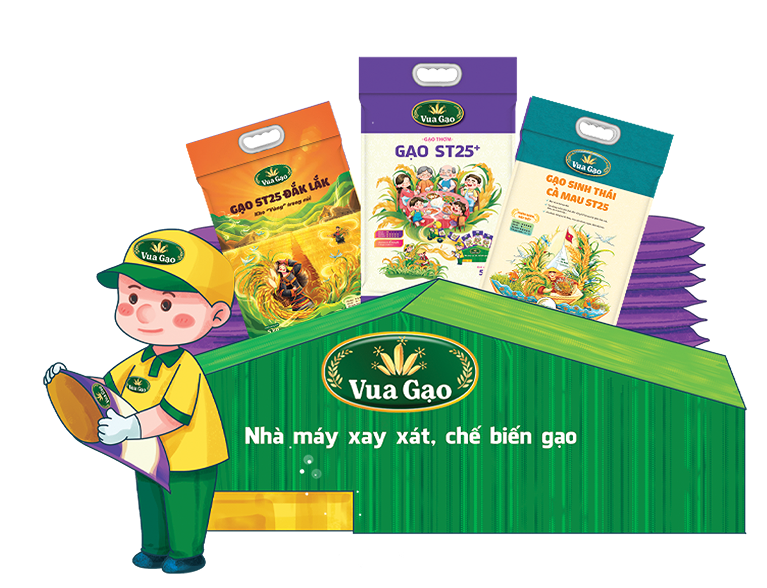
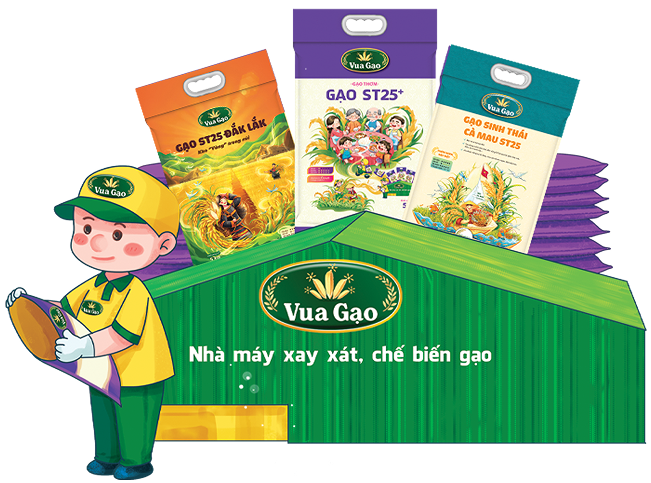
update
html
css
js

diff --git a/css/custom/custom.css b/css/custom/custom.css
@@ -1082,30 +1082,29 @@
 }
 
 .product-fall {
-    top: -70%;
-    right: -73%;
+    top: -51%;
+    right: -84%;
     width: 115% !important;
-    transform: rotate(-50deg);
+    transform: rotate(-23deg);
 }
 
 .rice-fall {
-    width: 134% !important;
+    width: 122% !important;
     height: auto;
-    top: -109%;
-    left: -62%;
+    top: -100%;
+    left: -58%;
 }
 
-
 .padding-larger {
-    padding: 246px 0px 160px;
+    padding: 188px 0px 30px;
 }
 
 .padding-medium {
-    padding: 130px 0px;
+    padding: 0px 0px 66px;
 }
 
 .padding-small {
-    padding: 116px 0px 73px 0px;
+    padding: 66px 0px;
 }
 
 .Business-container h2,
